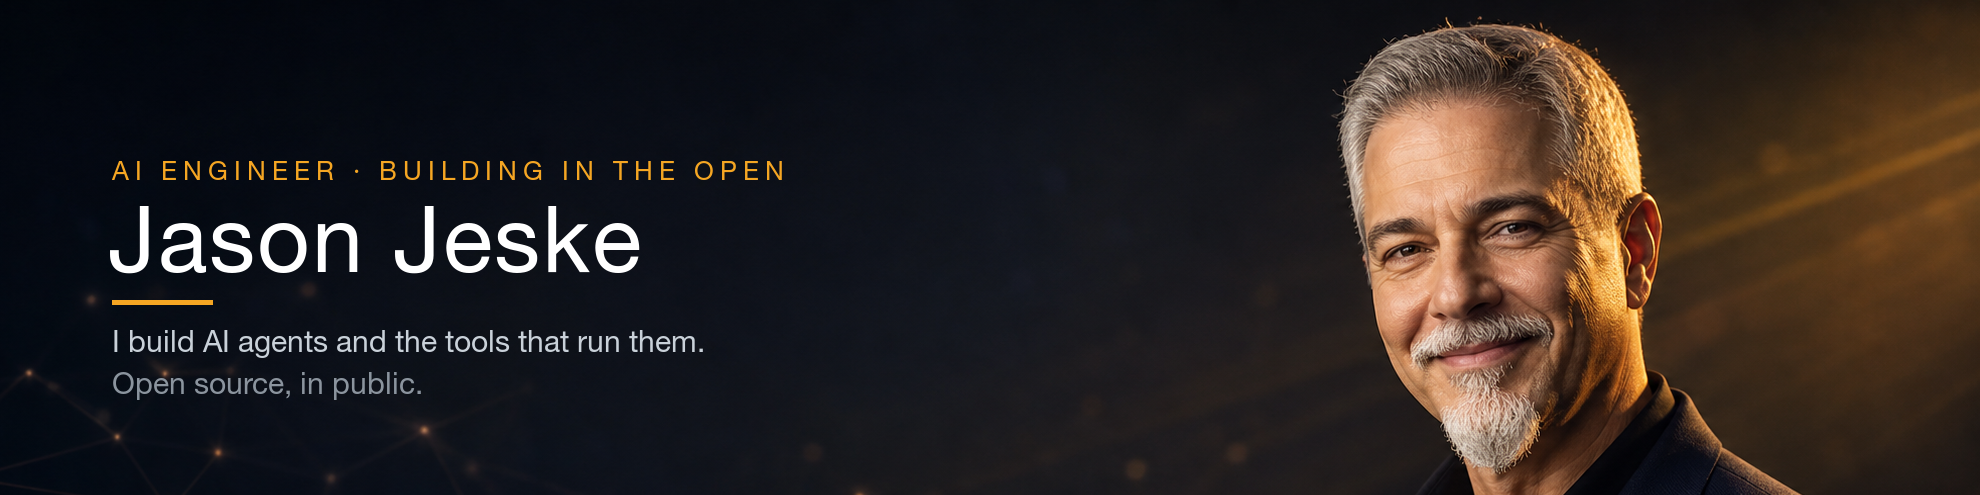
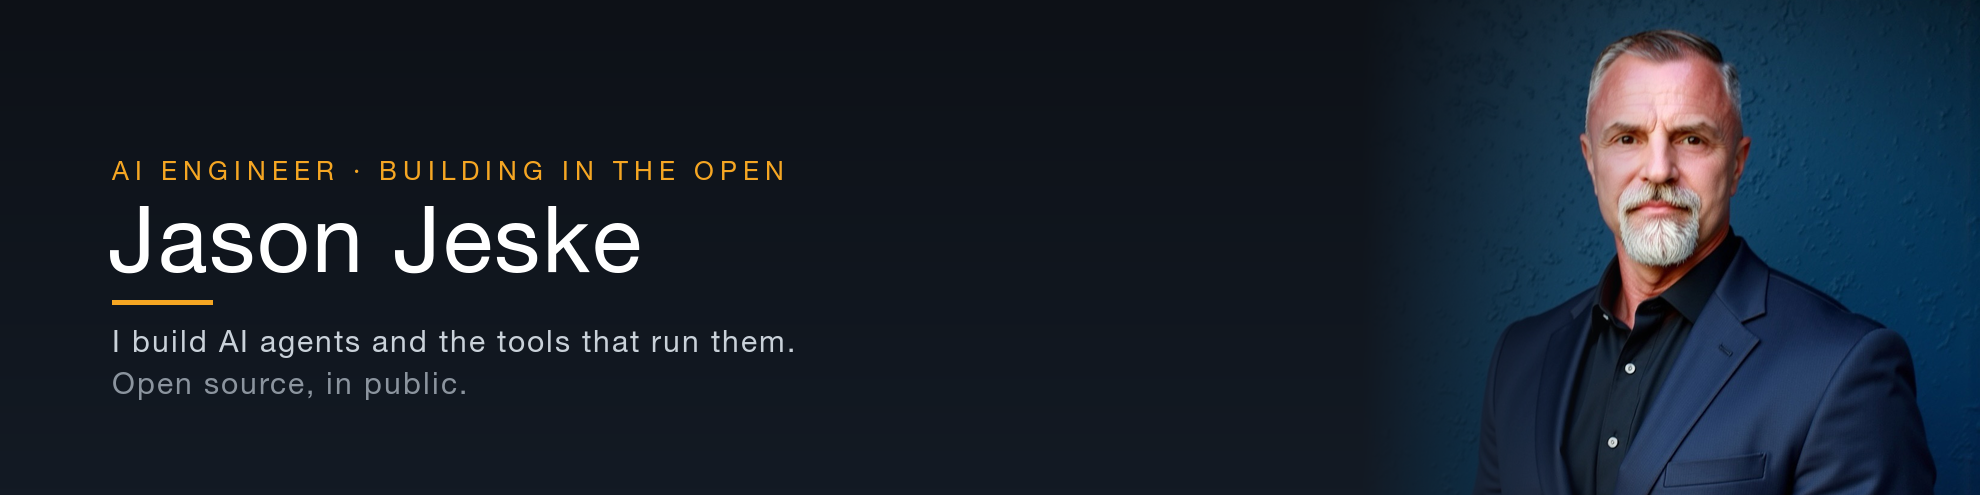
Replace generated imagery with real photography

diff --git a/README.md b/README.md
@@ -40,8 +40,6 @@ I'm not interested in demos that fall over the moment you point real work at the
 ![macOS](https://img.shields.io/badge/macOS-000000?style=flat-square&logo=apple&logoColor=white)
 ![Neovim](https://img.shields.io/badge/Neovim-57A143?style=flat-square&logo=neovim&logoColor=white)
 
-![Building at night](media/workspace.png)
-
 ## How I work
 
 I keep a short list of rules that have cost me something to learn:
